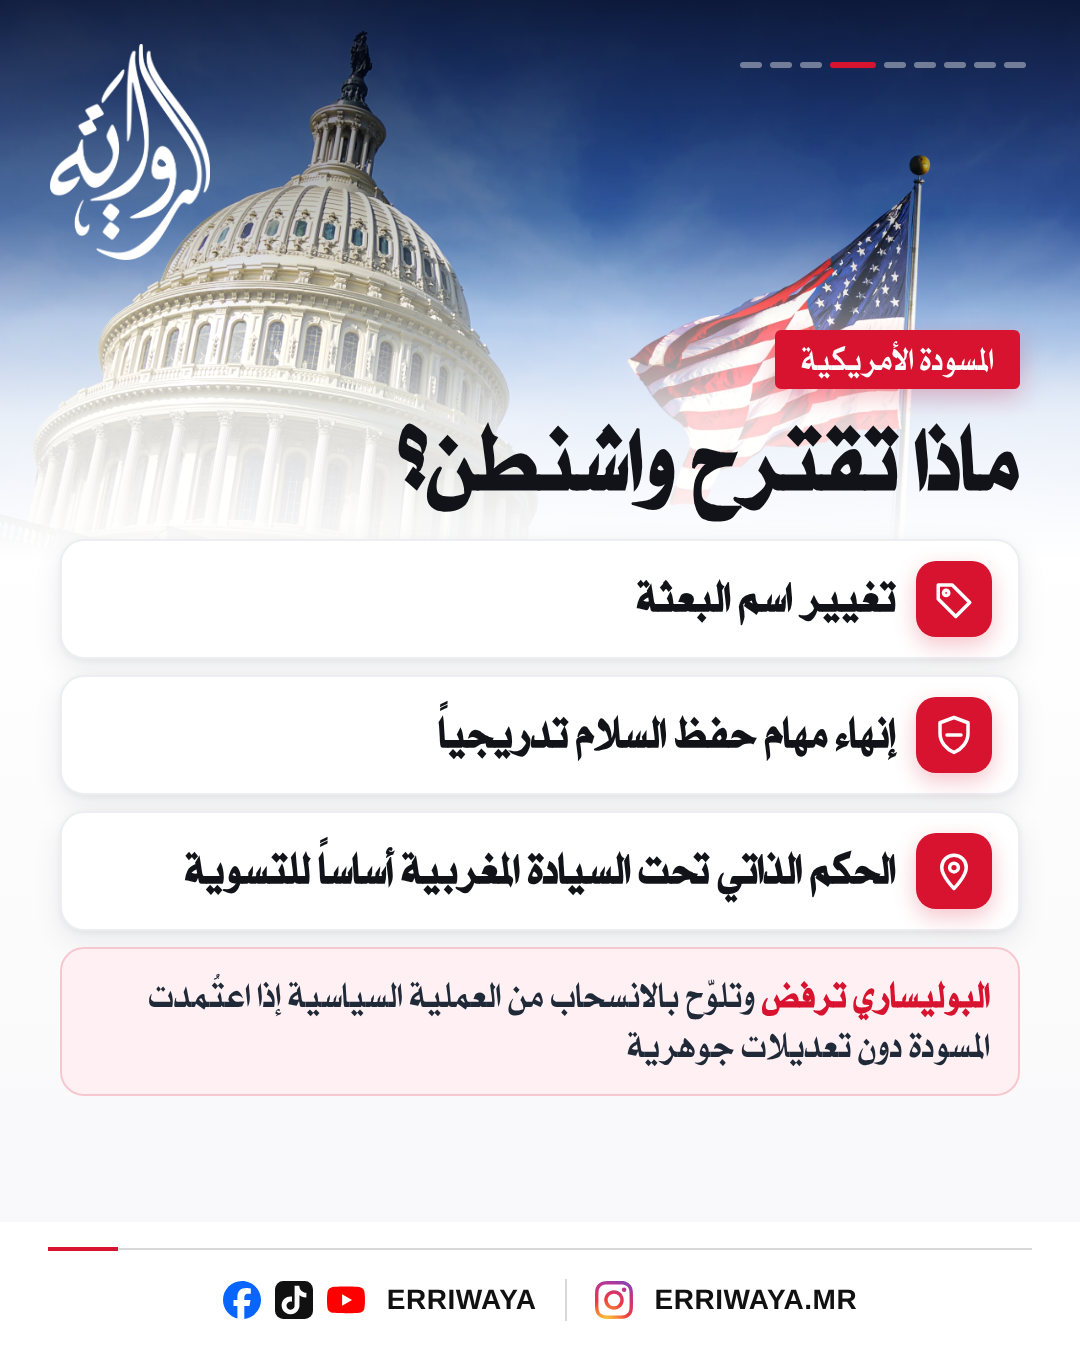
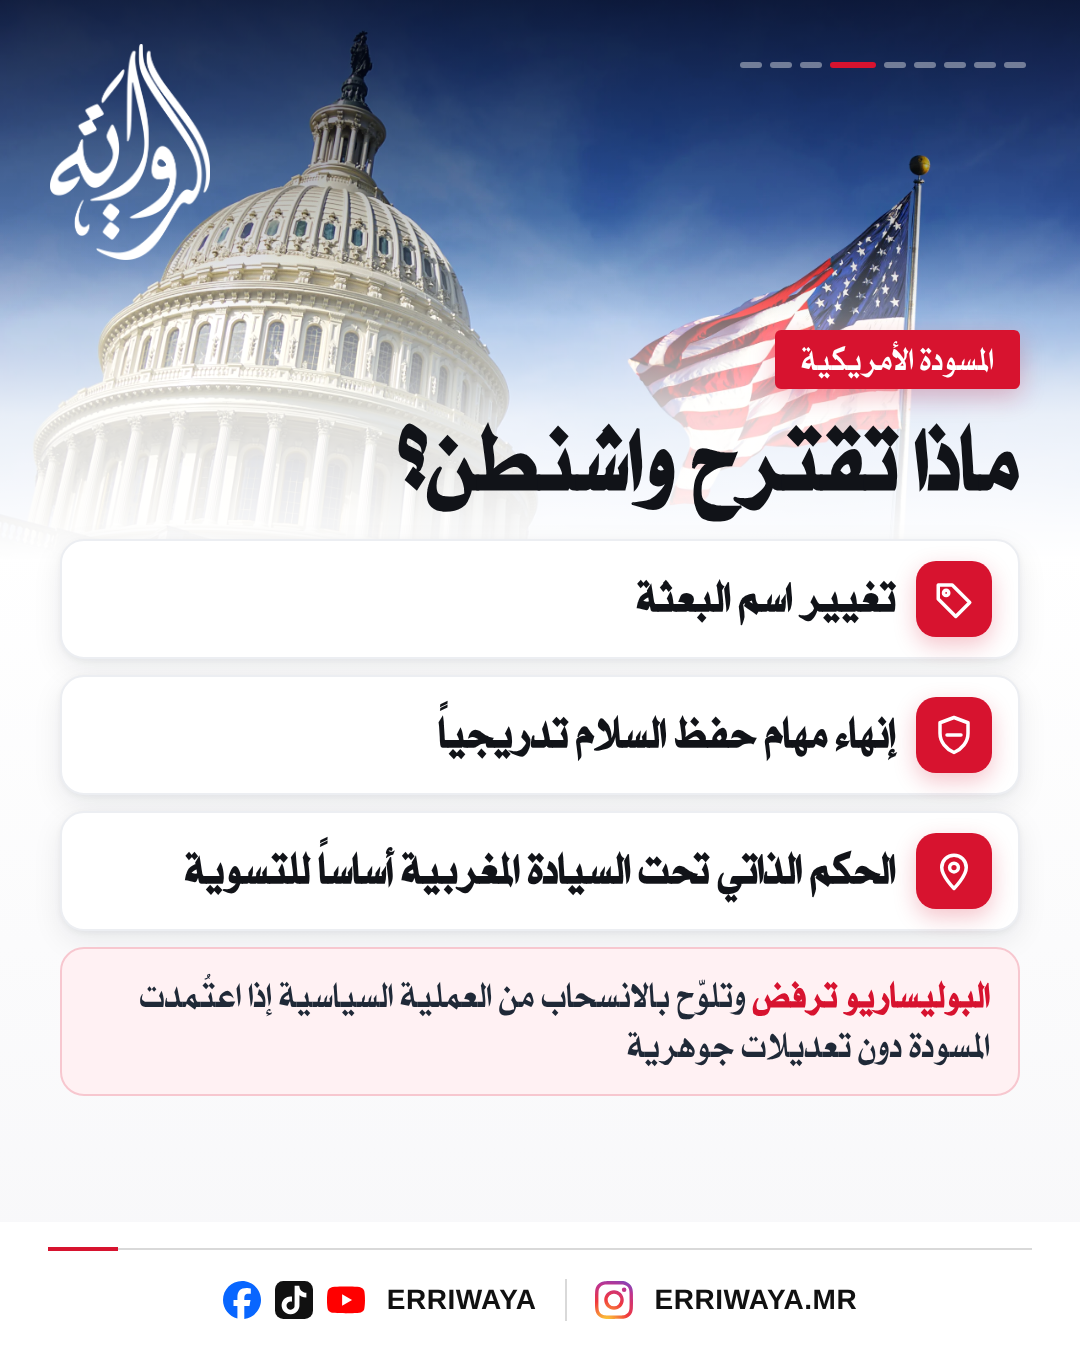
MINURSO carousel: spell البوليساريو
Claude-Session: https://claude.ai/code/session_01S8ECGBwohQoomeMp3zGTaV

Changed region(s): [[0.1222, 0.7156, 0.825, 0.7778]]

diff --git a/carousels/2026-10-29-minurso/carousel.html b/carousels/2026-10-29-minurso/carousel.html
@@ -151,7 +151,7 @@
       <div class="row"><span class="y">1975</span><span class="t">انسحاب إسبانيا وبداية النزاع</span></div>
       <div class="row"><span class="y">1991</span><span class="t">وقف إطلاق النار وإنشاء مينورسو</span></div>
       <div class="row"><span class="y">2007</span><span class="t">المغرب يقدّم مبادرة الحكم الذاتي</span></div>
-      <div class="row"><span class="y">2020</span><span class="t">البوليساري تعلن إنهاء وقف إطلاق النار بعد أحداث الكركرات</span></div>
+      <div class="row"><span class="y">2020</span><span class="t">البوليساريو تعلن إنهاء وقف إطلاق النار بعد أحداث الكركرات</span></div>
       <div class="row now"><span class="y">2026</span><span class="t">مجلس الأمن يصوّت على مستقبل البعثة</span></div>
     </div>
   </div>
@@ -182,7 +182,7 @@
       <div class="card" style="padding:20px 26px"><h3><span class="ic"><svg viewBox="0 0 24 24"><path d="M3 12V4h8l10 10-8 8z"/><circle cx="7.5" cy="8.5" r="1.5"/></svg></span>تغيير اسم البعثة</h3></div>
       <div class="card" style="padding:20px 26px"><h3><span class="ic"><svg viewBox="0 0 24 24"><path d="M12 2l8 3v6c0 5-3.5 9-8 11-4.5-2-8-6-8-11V5z"/><path d="M8 12h8"/></svg></span>إنهاء مهام حفظ السلام تدريجياً</h3></div>
       <div class="card" style="padding:20px 26px"><h3><span class="ic"><svg viewBox="0 0 24 24"><path d="M12 22s7-7 7-12a7 7 0 0 0-14 0c0 5 7 12 7 12z"/><circle cx="12" cy="10" r="2.5"/></svg></span>الحكم الذاتي تحت السيادة المغربية أساساً للتسوية</h3></div>
-      <div class="card hotcard" style="padding:22px 28px"><p style="margin:0;font-size:35px;line-height:1.45"><b style="color:var(--red)">البوليساري ترفض</b> وتلوّح بالانسحاب من العملية السياسية إذا اعتُمدت المسودة دون تعديلات جوهرية</p></div>
+      <div class="card hotcard" style="padding:22px 28px"><p style="margin:0;font-size:35px;line-height:1.45"><b style="color:var(--red)">البوليساريو ترفض</b> وتلوّح بالانسحاب من العملية السياسية إذا اعتُمدت المسودة دون تعديلات جوهرية</p></div>
     </div>
   </div>
 </section>
@@ -195,7 +195,7 @@
     <h1>أين يقف كل طرف؟</h1>
     <div class="grid pos">
       <div class="card"><h3><svg class="flag" viewBox="0 0 30 20"><rect width="30" height="20" fill="#C1272D"/><path d="M15 5.2l2.6 8-6.8-4.9h8.4l-6.8 4.9z" fill="none" stroke="#006233" stroke-width="1"/></svg>المغرب</h3><p>الحكم الذاتي تحت سيادته</p></div>
-      <div class="card"><h3><svg class="flag" viewBox="0 0 30 20"><rect width="30" height="20" fill="#007A3D"/><rect width="30" height="13.33" fill="#fff"/><rect width="30" height="6.67" fill="#000"/><path d="M0 0l10 10L0 20z" fill="#C4111B"/><circle cx="16" cy="10" r="2.6" fill="#C4111B"/><circle cx="16.9" cy="10" r="2.2" fill="#fff"/><path d="M18.6 8.7l.4 1.1h1.1l-.9.7.3 1.1-.9-.7-.9.7.3-1.1-.9-.7h1.1z" fill="#C4111B"/></svg>البوليساري</h3><p>استفتاء لتقرير المصير</p></div>
+      <div class="card"><h3><svg class="flag" viewBox="0 0 30 20"><rect width="30" height="20" fill="#007A3D"/><rect width="30" height="13.33" fill="#fff"/><rect width="30" height="6.67" fill="#000"/><path d="M0 0l10 10L0 20z" fill="#C4111B"/><circle cx="16" cy="10" r="2.6" fill="#C4111B"/><circle cx="16.9" cy="10" r="2.2" fill="#fff"/><path d="M18.6 8.7l.4 1.1h1.1l-.9.7.3 1.1-.9-.7-.9.7.3-1.1-.9-.7h1.1z" fill="#C4111B"/></svg>البوليساريو</h3><p>استفتاء لتقرير المصير</p></div>
       <div class="card"><h3><svg class="flag" viewBox="0 0 30 20"><rect width="15" height="20" fill="#006233"/><rect x="15" width="15" height="20" fill="#fff"/><circle cx="15" cy="10" r="5" fill="#D21034"/><circle cx="16.3" cy="10" r="4" fill="#fff"/><path d="M17.6 8.2l.6 1.4h1.5l-1.2.9.5 1.5-1.4-.9-1.2.9.4-1.5-1.2-.9h1.5z" fill="#D21034"/></svg>الجزائر</h3><p>تدعم حق تقرير المصير</p></div>
       <div class="card"><h3><svg class="flag" viewBox="0 0 30 20"><rect width="30" height="20" fill="#00A95C"/><rect width="30" height="3" fill="#D01C1F"/><rect y="17" width="30" height="3" fill="#D01C1F"/><path d="M10 8.5a5 5 0 0 0 10 0a5 4 0 0 1-10 0z" fill="#FFD700"/><path d="M15 4.3l.6 1.6h1.7l-1.4 1 .5 1.6-1.4-1-1.4 1 .5-1.6-1.4-1h1.7z" fill="#FFD700"/></svg>موريتانيا</h3><p>الحياد الإيجابي</p></div>
     </div>
